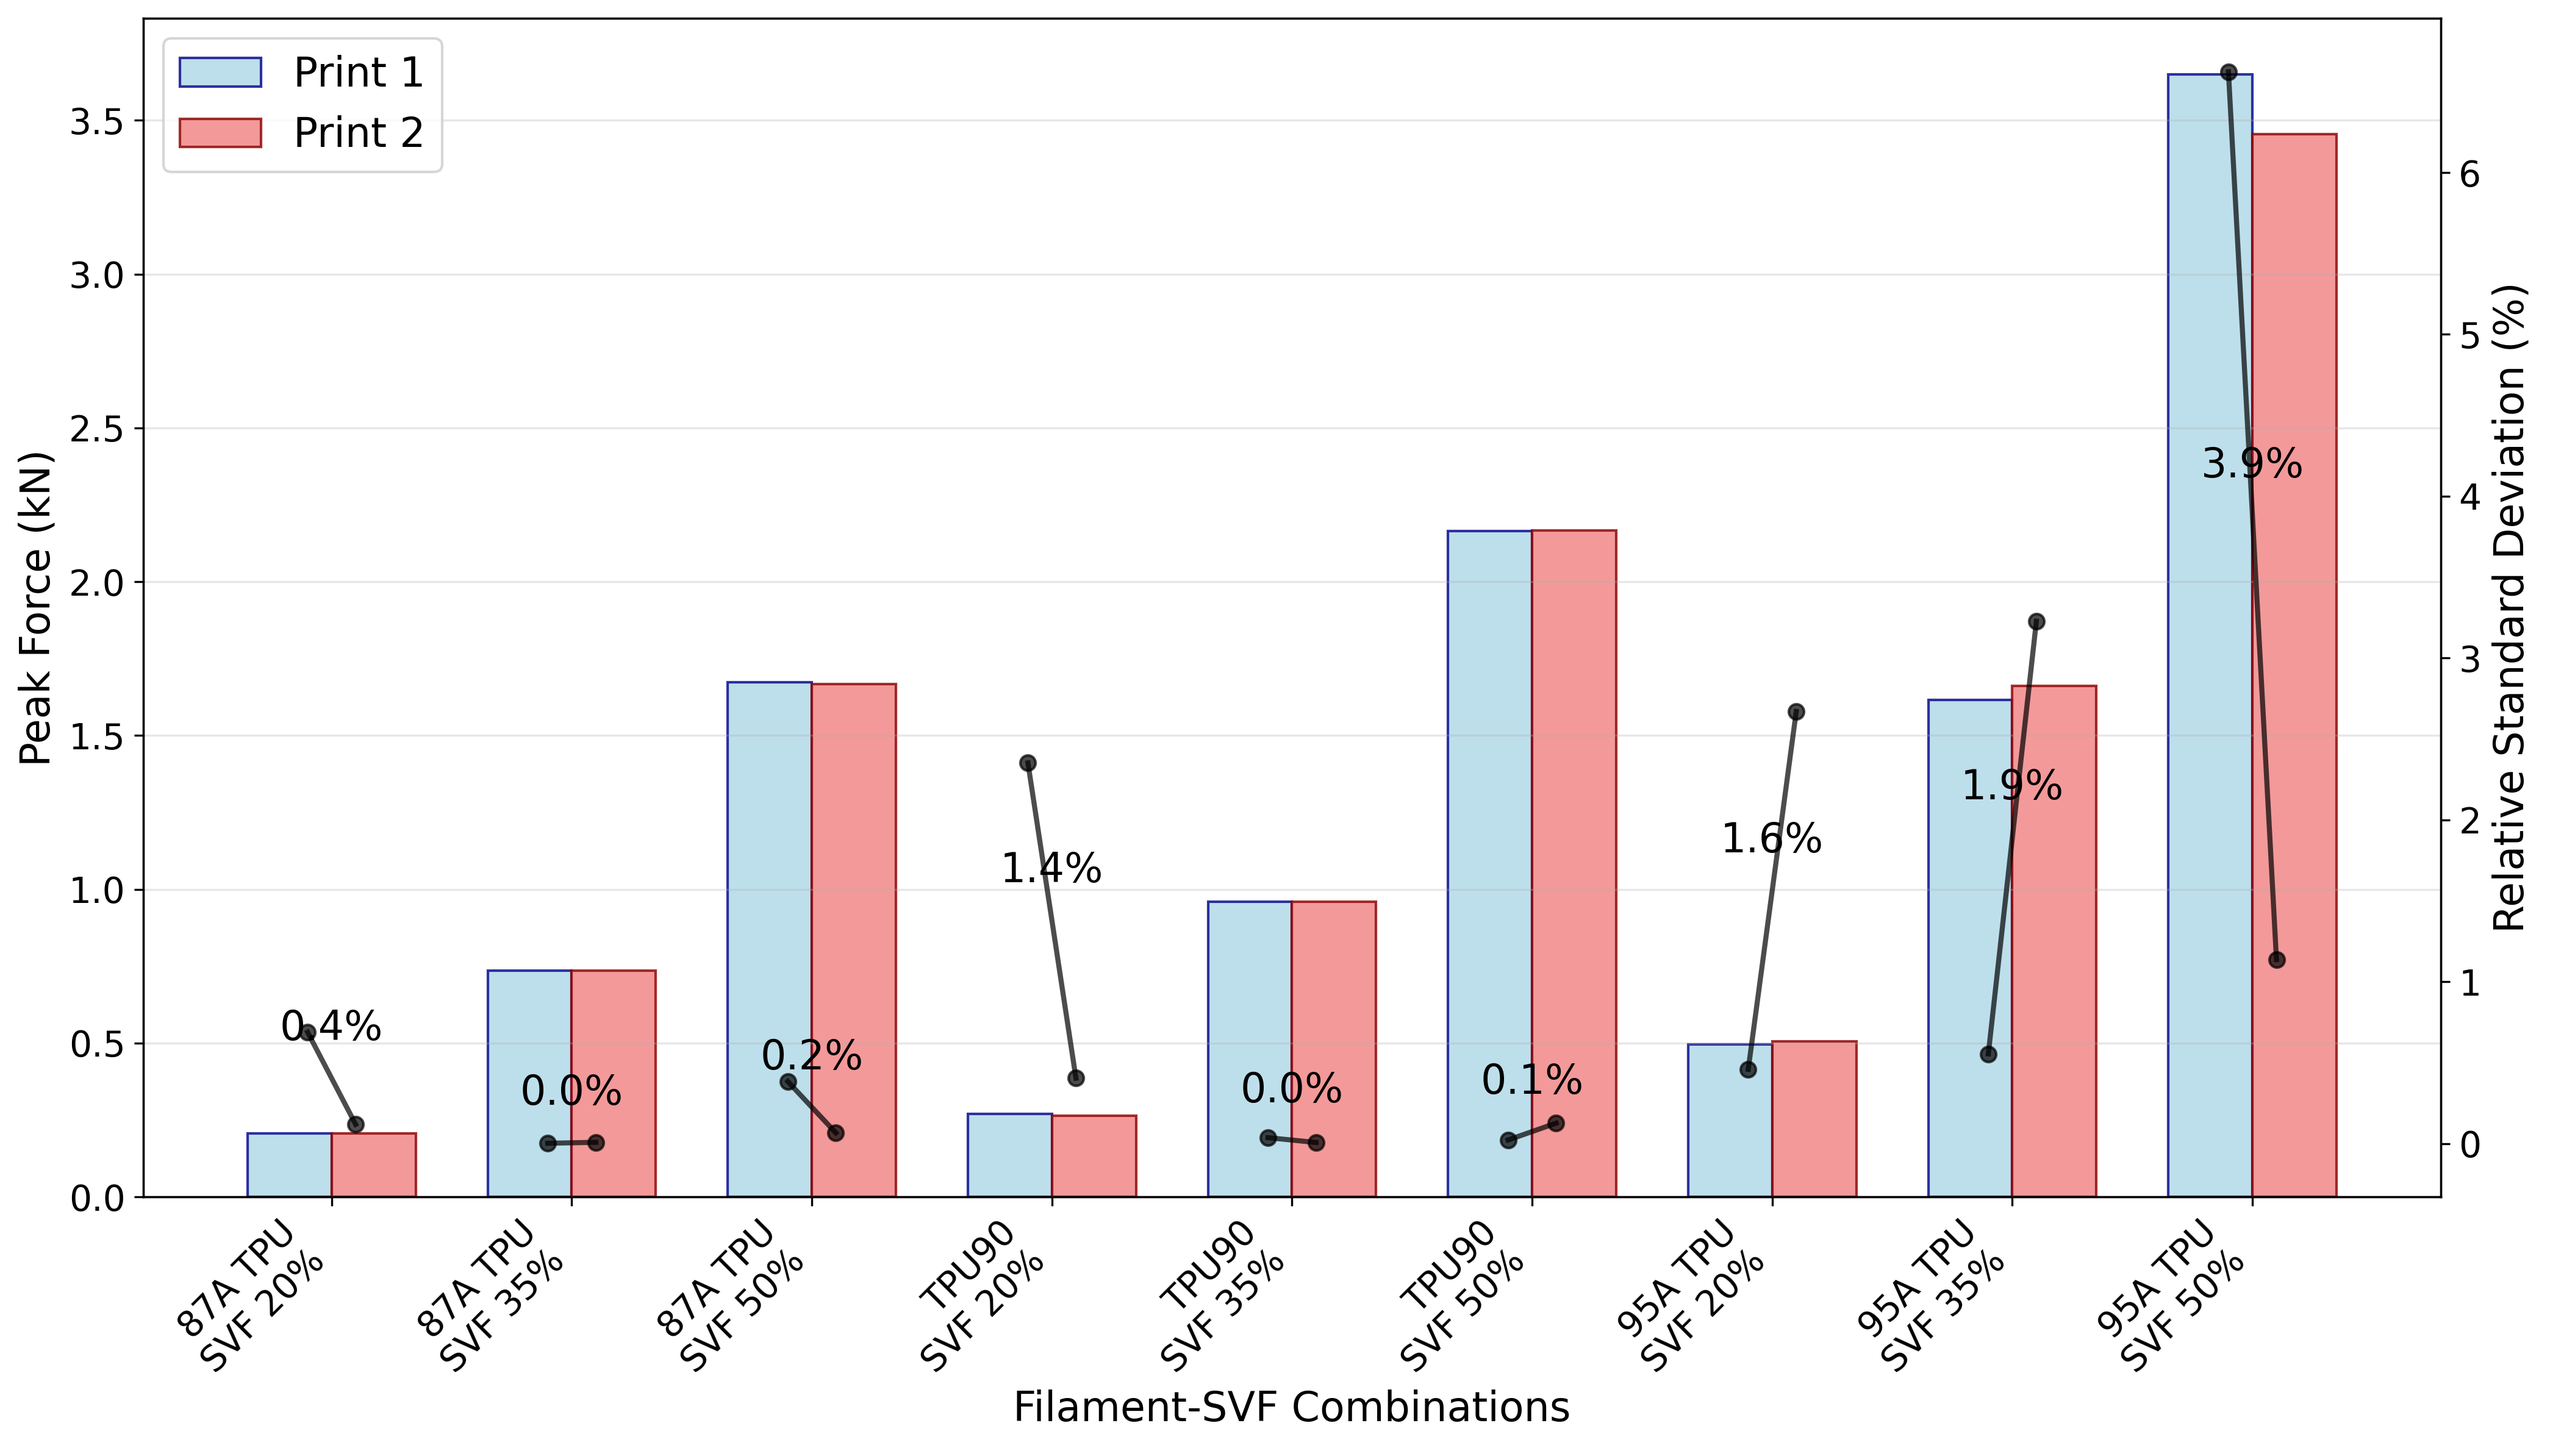
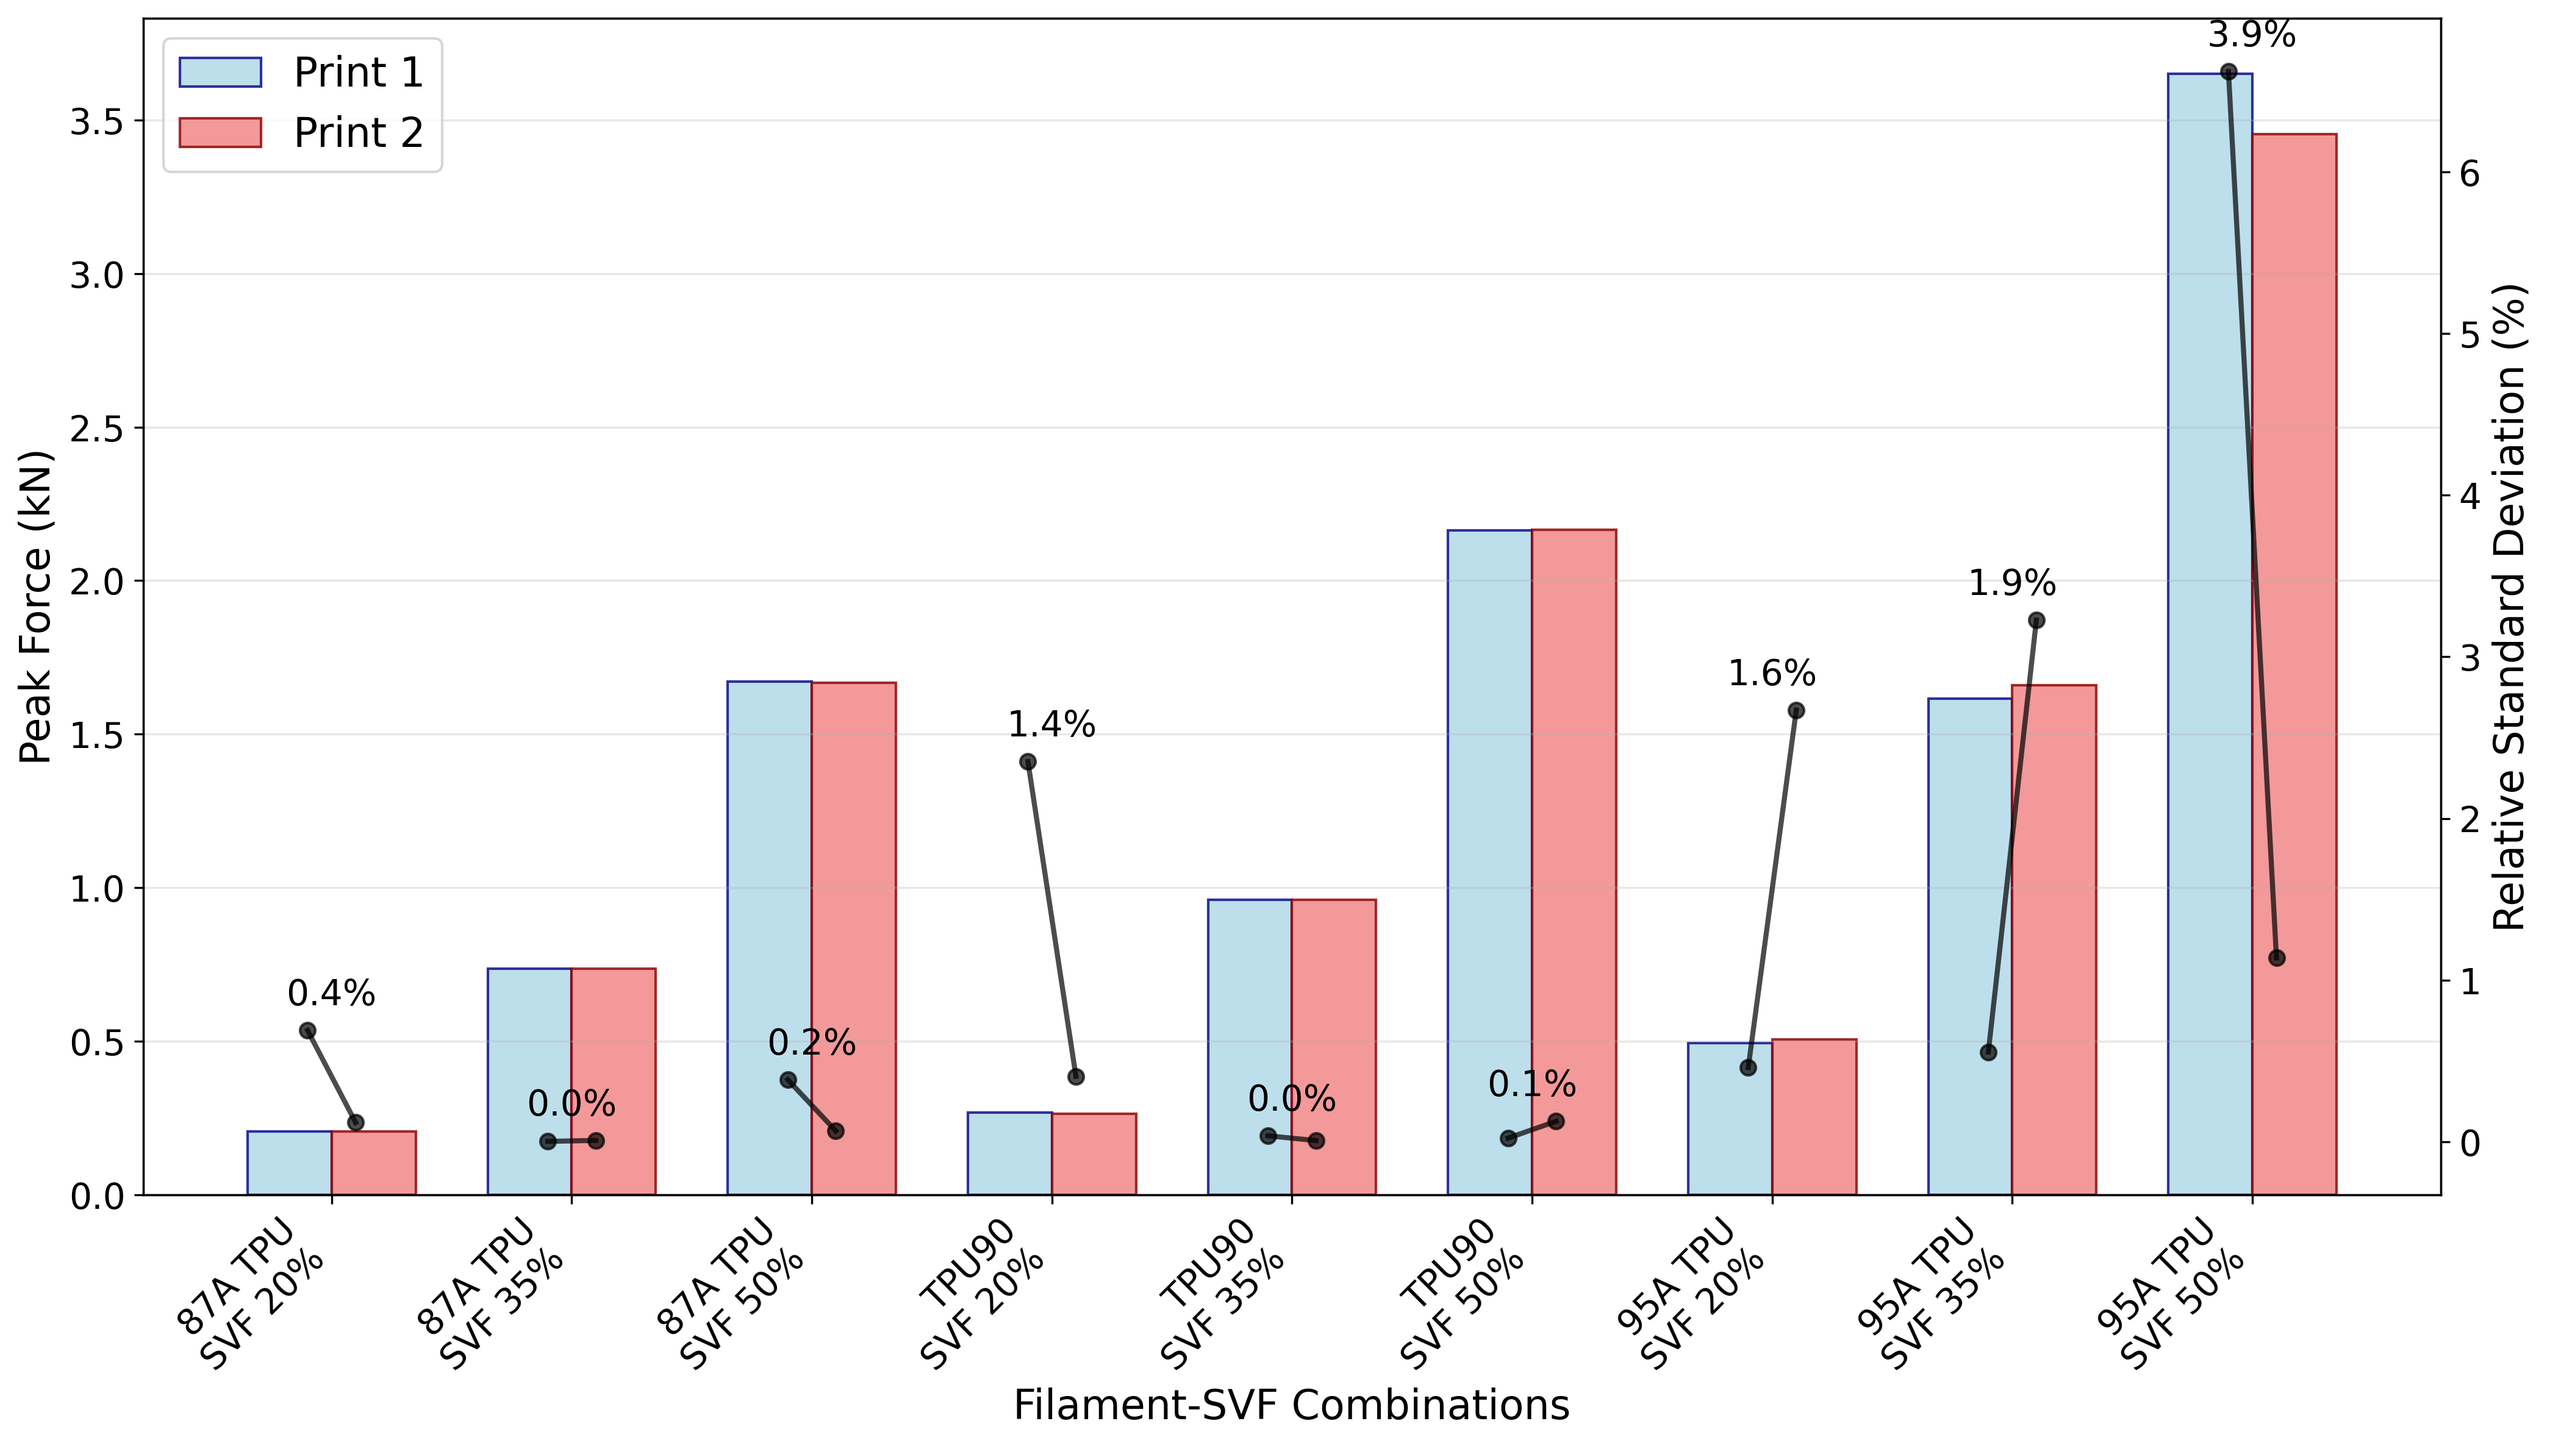
better RSD plots

diff --git a/cyclic_compression_analysis.py b/cyclic_compression_analysis.py
@@ -2797,9 +2797,10 @@ def plot_first_cycle_peak_force_histogram(csv_path):
             ax2.plot([x-0.1, x+0.1], [rsd_normal, rsd_reprint], 
                     color='black', linewidth=2, alpha=0.7, zorder=2, marker='o')
 
-            # Add RSD value label
-            ax2.annotate(f'{rsd:.1f}%', (x, rsd), textcoords="offset points", 
-                        xytext=(0,15), ha='center', fontsize=16, color='black')
+            # Add RSD value label above the highest point of the line
+            max_rsd_point = max(rsd_normal, rsd_reprint)
+            ax2.annotate(f'{rsd:.1f}%', (x, max_rsd_point), textcoords="offset points", 
+                        xytext=(0,10), ha='center', fontsize=14, color='black')
         ax2.tick_params(axis='both', which='major', labelsize=14)
         ax2.set_ylabel('Relative Standard Deviation (%)', fontsize=16, color='black')
         ax2.tick_params(axis='y', labelcolor='black')
@@ -2931,8 +2932,14 @@ def plot_cycle_peak_force_histogram(csv_path, cycle_num):
                 rsd_normal = ((normal - mean_val) / mean_val) * 100 + rsd
                 rsd_reprint = ((reprint - mean_val) / mean_val) * 100 + rsd
                 ax2.plot([x-0.1, x+0.1], [rsd_normal, rsd_reprint], color='black', linewidth=2, alpha=0.7, zorder=2, marker='o')
-            ax2.annotate(f'{rsd:.1f}%', (x, rsd), textcoords="offset points", 
-                         xytext=(0,15), ha='center', fontsize=16, color='black')
+                # Add RSD value label above the highest point of the line
+                max_rsd_point = max(rsd_normal, rsd_reprint)
+                ax2.annotate(f'{rsd:.1f}%', (x, max_rsd_point), textcoords="offset points", 
+                             xytext=(0,10), ha='center', fontsize=14, color='black')
+            else:
+                # If mean_val is 0, just annotate at the rsd value
+                ax2.annotate(f'{rsd:.1f}%', (x, rsd), textcoords="offset points", 
+                             xytext=(0,10), ha='center', fontsize=14, color='black')
         ax2.tick_params(axis='both', which='major', labelsize=14)
         ax2.set_ylabel('Relative Standard Deviation (%)', fontsize=16, color='black')
         ax2.tick_params(axis='y', labelcolor='black')
